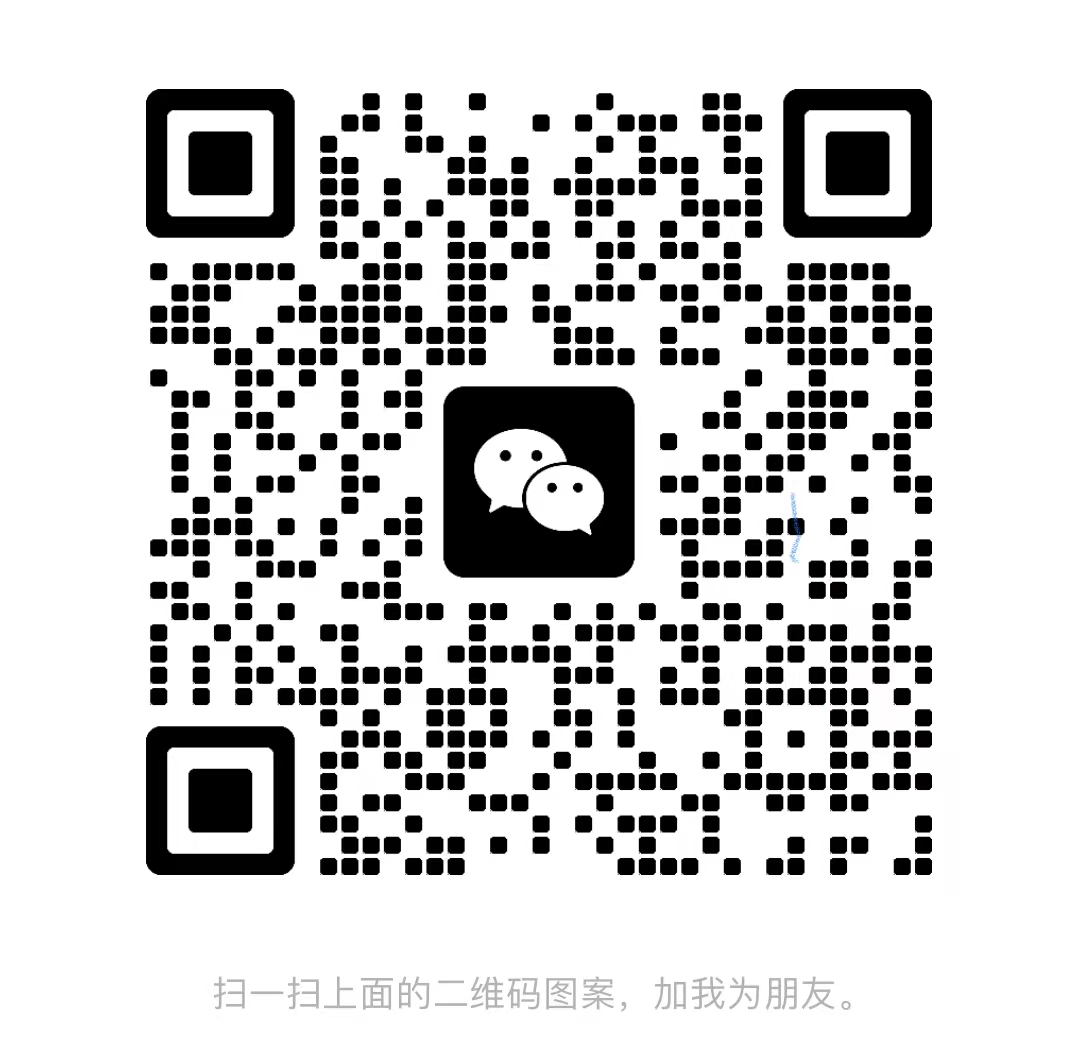
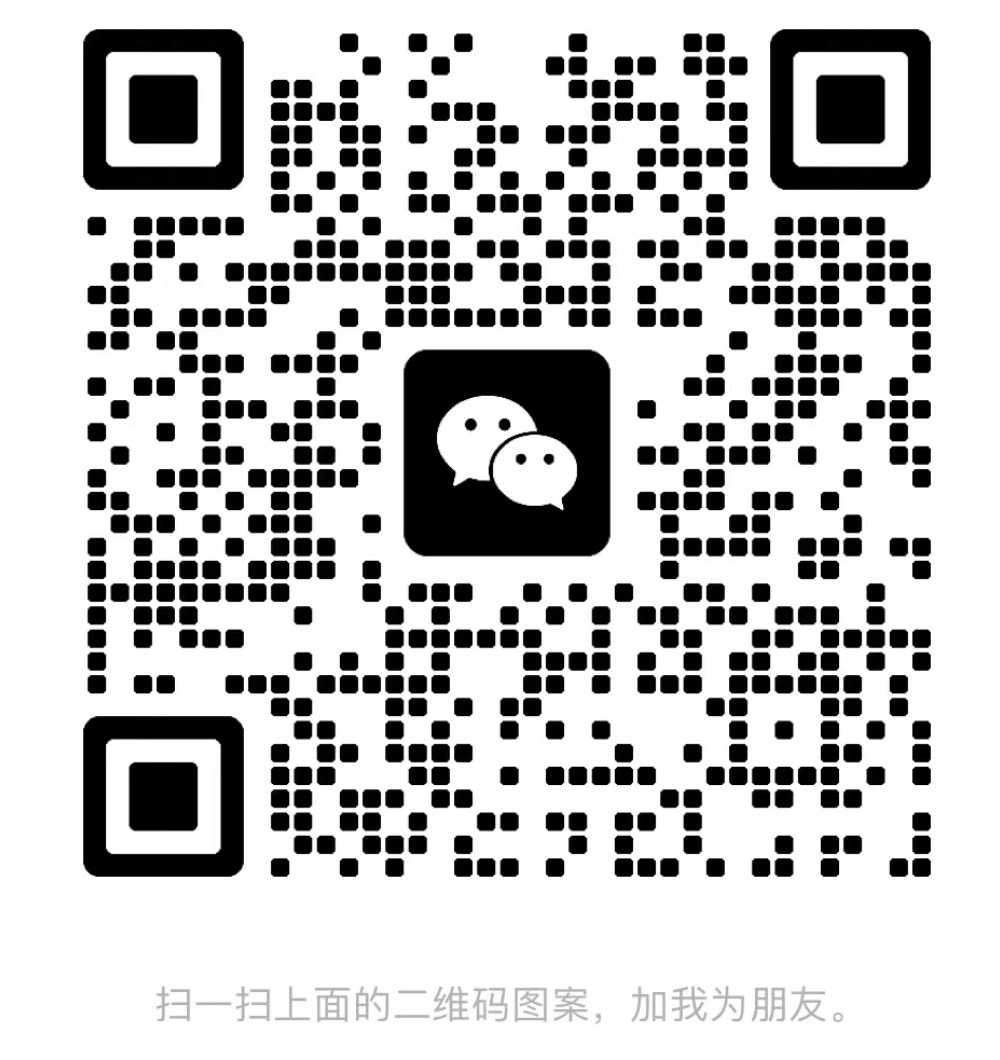
chore

diff --git a/src/pages/cooperate.md b/src/pages/cooperate.md
@@ -30,7 +30,7 @@ hide_table_of_contents: true
 
 ## 申请技术支持
 需要技术支持的开发者，请扫描下方二维码加作者微信，备注 "技术支持"
-<!--<img src="/img/personal.jpeg" width="200" />-->
+<img src="/img/personal.jpeg" width="200" />
 
 ## 定制开发/合作
 作为一名经验丰富的 `PHP` 开发者，我非常期待能够为您提供我的服务。我可以为您提供多种技能和服务，包括但不限于 `PHP` 网站和应用程序的开发、`MySQL` 数据库设计和管理、前端开发，包括 `HTML`、`CSS` 和 `JavaScript`、服务器设置和管理、代码审查和优化、安全性和性能优化等。我相信每个项目都有其独特的需求和挑战，因此我将与您密切合作，确保每个细节都得到妥善处理。
@@ -60,7 +60,7 @@ hide_table_of_contents: true
 
 ## 合作联系
 需要定制开发或者合作，请扫描下方二维码加作者微信，备注 "合作"
-<!--<img src="/img/personal.jpeg" width="200" />-->
+<img src="/img/personal.jpeg" width="200" />
 
 
 

diff --git a/versioned_docs/version-3.0/intro.md b/versioned_docs/version-3.0/intro.md
@@ -46,8 +46,9 @@ export const Checkedbox = ({children, color}) => (
 - 可以提 `ISSUE`，请按照 `issue` 模板提问
 - 加入 Q 群 `302266230` 暗号 `catchadmin`。
 
-## 支持创作
-如果项目对你有帮助，可以订阅支持我❤。你的每一份支持是对我最大的鼓励。开源不易，感谢支持。可以通过使用 [**🎉 爱发电**](https://afdian.net/@jaguarjack)订阅支持创作。
+## 赞助
+如果项目对你有帮助，或者在工作上帮你节省了开发时间。在力所能及的情况下，可以支持下`Catchadmin`项目, 非常感谢🙏
+<img src="/img/support.jpeg" width = "200" alt="support"/>
 
 ## 感谢🙏
 > 排名不分先后

diff --git a/src/pages/donate.md b/src/pages/donate.md
@@ -5,6 +5,8 @@ hide_table_of_contents: true
 ---
 
 ## 🎉 赞助名单，排名不分先后
+<div style={{"text-align": "center", width: "50%", margin: "auto",display: '-webkit-flex',display: 'flex', }}>
+<div>
 
 | 来源 | 昵称 | 金额 (元)|时间
 | :----: | :----:| :----: | :----: |
@@ -51,3 +53,9 @@ hide_table_of_contents: true
 | 微信 | 三上优雅笔城中 | 18.8 | 2020/8/12 |
 | QQ | 青芒 | 99.0 | 2020/5/-- |
 
+</div>
+<div style={{ "margin-top" : "30%", "margin-left": "100px"}}>
+    <img src="/img/support.jpeg" width = "200" alt="support"/>
+    <div style={{"text-align": "center"}}>微信</div>
+</div>
+</div>
